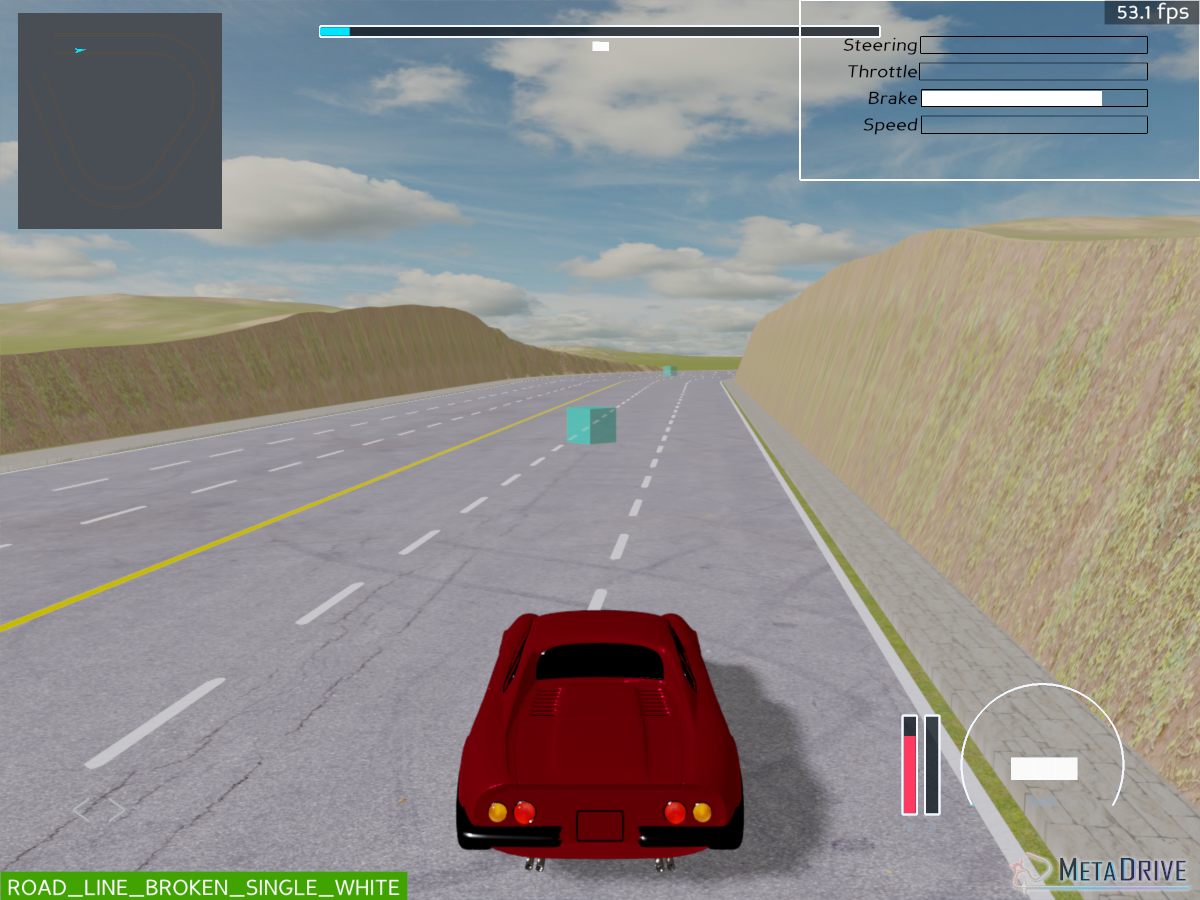
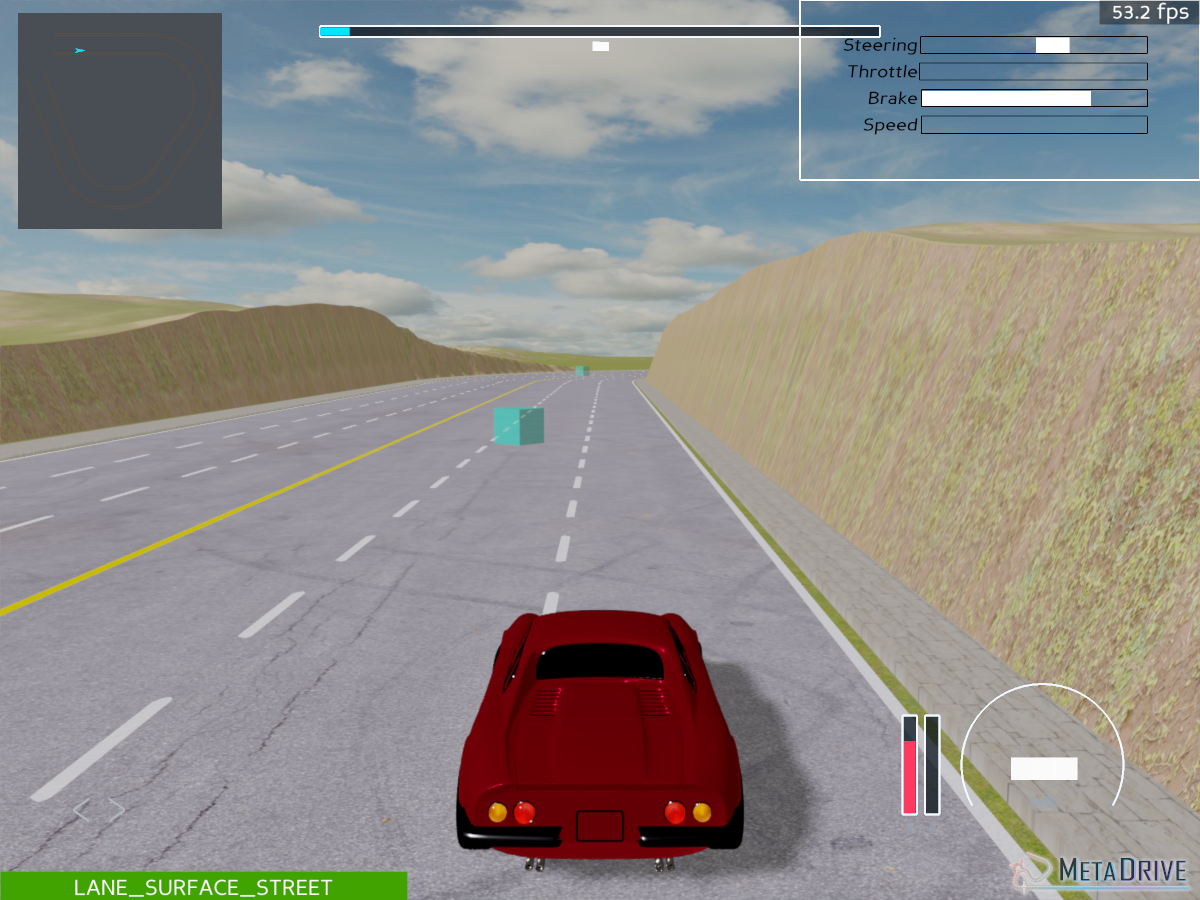
fix(visualization): refine HUD-2 telemetry sanitization, reset resting state, and demo evidence

diff --git a/autonomous-driving-rl/tests/test_racing_hud.py b/autonomous-driving-rl/tests/test_racing_hud.py
@@ -91,7 +91,7 @@ class TestRacingHudUnitSuite(unittest.TestCase):
         self.assertEqual(d["world_position"], (12.5, 34.2))
 
     def test_02_telemetry_nan_and_inf_normalized_to_none(self):
-        """2. Telemetry factory converts NaN, Inf, and non-numeric values to None."""
+        """2. Telemetry factory converts NaN, Inf, negative speeds, and non-numeric values to None."""
         snap = create_telemetry_snapshot(
             speed_kmh=float("nan"),
             route_completion=float("inf"),
@@ -99,6 +99,7 @@ class TestRacingHudUnitSuite(unittest.TestCase):
             canonical_throttle_brake="invalid",
             world_position=(float("nan"), 10.0),
             heading_theta_rad=float("nan"),
+            is_clean_success="not_a_bool",
         )
         self.assertIsNone(snap.speed_kmh)
         self.assertIsNone(snap.route_completion)
@@ -106,6 +107,19 @@ class TestRacingHudUnitSuite(unittest.TestCase):
         self.assertIsNone(snap.canonical_throttle_brake)
         self.assertIsNone(snap.world_position)
         self.assertIsNone(snap.heading_theta_rad)
+        self.assertIsNone(snap.is_clean_success)
+
+        # Negative speeds must be normalized to None (not coerced to 0.0)
+        snap_neg = create_telemetry_snapshot(speed_kmh=-15.0)
+        self.assertIsNone(snap_neg.speed_kmh)
+
+        # Strict boolean validation for is_clean_success
+        snap_int_bool = create_telemetry_snapshot(is_clean_success=1)
+        self.assertIsNone(snap_int_bool.is_clean_success)
+        snap_true = create_telemetry_snapshot(is_clean_success=True)
+        self.assertIs(snap_true.is_clean_success, True)
+        snap_false = create_telemetry_snapshot(is_clean_success=False)
+        self.assertIs(snap_false.is_clean_success, False)
 
     def test_03_speed_format_valid_zero_vs_missing_vs_positive(self):
         """3. Speedometer formats: 0.0 -> '000', None -> '---', 48.0 -> '048'."""
@@ -390,20 +404,38 @@ class TestRacingHudUnitSuite(unittest.TestCase):
             hud.destroy()
 
     def test_18_reset_restores_default_visual_state(self):
-        """18. reset() restores widgets to resting state ('000', '---', idle indicators) without destroying nodes."""
+        """18. reset() restores all widgets to unavailable/missing state ('---', disabled indicators/pedals)."""
         engine = _create_mock_racing_engine()
         hud = RacingHud(engine)
         try:
+            # First, update with active telemetry
             hud.update(create_telemetry_snapshot(speed_kmh=75.0, route_completion=0.8, canonical_steering=-0.4, canonical_throttle_brake=0.8))
             self.assertEqual(hud.speed_text_node.getText(), "075")
+            self.assertEqual(hud.progress_text_node.getText(), "80%")
 
+            # Now reset
             hud.reset()
-            self.assertEqual(hud.speed_text_node.getText(), "000")
+            # Speed must be '---' (never '000' before actual telemetry)
+            self.assertEqual(hud.speed_text_node.getText(), "---")
+            self.assertEqual(hud.speed_text_node.getTextColor(), COLOR_TEXT_DIM)
             self.assertEqual(hud.progress_text_node.getText(), "---")
             self.assertTrue(hud.progress_fill.isHidden())
-            self.assert_color_almost_equal(hud.indicator_left_np.getColor(), COLOR_INDICATOR_IDLE)
+            self.assert_color_almost_equal(hud.indicator_left_np.getColor(), COLOR_INDICATOR_DISABLED)
+            self.assert_color_almost_equal(hud.indicator_right_np.getColor(), COLOR_INDICATOR_DISABLED)
+            self.assert_color_almost_equal(hud.brake_bg.getColor(), COLOR_INDICATOR_DISABLED)
+            self.assert_color_almost_equal(hud.throttle_bg.getColor(), COLOR_INDICATOR_DISABLED)
             self.assertTrue(hud.brake_fill.isHidden())
             self.assertTrue(hud.throttle_fill.isHidden())
+
+            # First subsequent valid snapshot must re-illuminate and update accurately
+            hud.update(create_telemetry_snapshot(speed_kmh=0.0, route_completion=0.0, canonical_steering=0.0, canonical_throttle_brake=0.0))
+            self.assertEqual(hud.speed_text_node.getText(), "000")
+            self.assertEqual(hud.speed_text_node.getTextColor(), COLOR_TEXT_PRIMARY)
+            self.assertEqual(hud.progress_text_node.getText(), "0%")
+            self.assert_color_almost_equal(hud.indicator_left_np.getColor(), COLOR_INDICATOR_IDLE)
+            self.assert_color_almost_equal(hud.indicator_right_np.getColor(), COLOR_INDICATOR_IDLE)
+            self.assert_color_almost_equal(hud.brake_bg.getColor(), COLOR_BG_GLASS)
+            self.assert_color_almost_equal(hud.throttle_bg.getColor(), COLOR_BG_GLASS)
         finally:
             hud.destroy()
 
@@ -463,6 +495,42 @@ class TestRacingHudUnitSuite(unittest.TestCase):
[3 lines of base64/hex data omitted]
+
+    def test_23_demo_telemetry_extraction_and_safe_none_position(self):
+        """23. Missing world_position is handled without indexing NoneType, passing safely to visualizers."""
+        snap = create_telemetry_snapshot(world_position=None, speed_kmh=None, route_completion=None)
+        self.assertIsNone(snap.world_position)
+        # Safe extraction pattern verified
+        wx = snap.world_position[0] if snap.world_position is not None else None
+        wy = snap.world_position[1] if snap.world_position is not None else None
+        self.assertIsNone(wx)
+        self.assertIsNone(wy)
+
+    def test_24_combined_steering_and_braking_simultaneous_active(self):
+        """24. Combined steering + braking activates both turn indicator and red brake meter simultaneously."""
+        engine = _create_mock_racing_engine()
+        hud = RacingHud(engine)
+        try:
+            # Scripted maneuver: Steer Left (-0.30) AND Brake (-0.75)
+            snap = create_telemetry_snapshot(
+                speed_kmh=25.0,
+                canonical_steering=-0.30,
+                canonical_throttle_brake=-0.75,
+            )
+            hud.update(snap)
+
+            # Left turn indicator is active (amber)
+            self.assert_color_almost_equal(hud.indicator_left_np.getColor(), COLOR_INDICATOR_ACTIVE)
+            self.assert_color_almost_equal(hud.indicator_right_np.getColor(), COLOR_INDICATOR_IDLE)
+
+            # Red brake meter is active at 75%
+            self.assertFalse(hud.brake_fill.isHidden())
+            self.assertAlmostEqual(hud.brake_fill.getScale().z, 0.75, places=3)
+
+            # Throttle meter is inactive (0 fill)
+            self.assertTrue(hud.throttle_fill.isHidden())
+        finally:
+            hud.destroy()
 
 
 if __name__ == "__main__":

diff --git a/autonomous-driving-rl/scripts/demo_racing_hud_native.py b/autonomous-driving-rl/scripts/demo_racing_hud_native.py
@@ -104,10 +104,10 @@ def run_racing_hud_demo(
 
         while not (terminated or truncated) and step_idx < steps:
             # Multi-phase scripted action for comprehensive UI state verification:
-            # - Phase 1 (0..24): Straight acceleration (throttle=0.6)
+            # - Phase 1 (0..24): Straight acceleration (throttle=0.6, steering=0.0)
             # - Phase 2 (25..44): Gentle left turn (steering=-0.25, throttle=0.2)
             # - Phase 3 (45..64): Gentle right turn (steering=+0.25, throttle=0.2)
-            # - Phase 4 (65..80): Strong braking (throttle=-0.8)
+            # - Phase 4 (65..85): Combined Left Steering + Braking (steering=-0.30, throttle=-0.75)
             if step_idx < 25:
                 steer_cmd = 0.0
                 tb_cmd = 0.6
@@ -121,44 +121,48 @@ def run_racing_hud_demo(
                 tb_cmd = 0.2
                 phase_name = "RIGHT"
             else:
-                steer_cmd = 0.0
-                tb_cmd = -0.8
-                phase_name = "BRAKE"
+                steer_cmd = -0.30
+                tb_cmd = -0.75
+                phase_name = "BRK+LEFT"
 
             canonical_act = adapter.to_canonical([steer_cmd, tb_cmd])
             raw_obs, r_env, terminated, truncated, step_info = env.step(canonical_act.to_numpy())
             step_idx += 1
 
-            # Extract authoritative telemetry pose & metrics
-            pos = getattr(env.agent, "position", (0.0, 0.0))
-            heading = getattr(env.agent, "heading_theta", 0.0)
-            speed = getattr(env.agent, "speed_km_h", 0.0)
-            route_comp = step_info.get("route_completion", 0.0)
+            # Extract authoritative telemetry pose & metrics without fabricating fallbacks
+            pos = getattr(env.agent, "position", None) if hasattr(env, "agent") else None
+            heading = getattr(env.agent, "heading_theta", None) if hasattr(env, "agent") else None
+            speed = getattr(env.agent, "speed_km_h", None) if hasattr(env, "agent") else None
+            route_comp = step_info.get("route_completion") if isinstance(step_info, dict) else None
             sim_time = step_idx * 0.1
 
-            # Construct immutable telemetry snapshot
+            # Construct immutable telemetry snapshot via sanitizing factory
             snapshot = create_telemetry_snapshot(
                 step_index=step_idx,
                 simulation_time_s=sim_time,
-                world_position=(float(pos[0]), float(pos[1])),
-                heading_theta_rad=float(heading),
-                speed_kmh=float(speed),
-                route_completion=float(route_comp),
+                world_position=pos,
+                heading_theta_rad=heading,
+                speed_kmh=speed,
+                route_completion=route_comp,
                 canonical_steering=steer_cmd,
                 canonical_throttle_brake=tb_cmd,
             )
 
-            # Update visualizers
+            # Update visualizers defensively
             if minimap is not None:
-                minimap.update(world_x=snapshot.world_position[0], world_y=snapshot.world_position[1], heading_rad=snapshot.heading_theta_rad)
+                wx = snapshot.world_position[0] if snapshot.world_position is not None else None
+                wy = snapshot.world_position[1] if snapshot.world_position is not None else None
+                minimap.update(world_x=wx, world_y=wy, heading_rad=snapshot.heading_theta_rad)
             if hud is not None:
                 hud.update(snapshot)
 
             if step_idx % 15 == 0 or step_idx == 1:
+                disp_spd = f"{snapshot.speed_kmh:5.1f} km/h" if snapshot.speed_kmh is not None else "  --- km/h"
+                disp_route = f"{snapshot.route_completion:5.1%}" if snapshot.route_completion is not None else "  ---"
                 print(
-                    f"  Step {step_idx:2d}/{steps} [{phase_name:5s}] | "
-                    f"Spd={speed:5.1f} km/h | "
-                    f"Route={route_comp:5.1%} | "
+                    f"  Step {step_idx:2d}/{steps} [{phase_name:8s}] | "
+                    f"Spd={disp_spd} | "
+                    f"Route={disp_route} | "
                     f"Steer={steer_cmd:+5.2f} | "
                     f"ThrBrk={tb_cmd:+5.2f}"
                 )
@@ -173,7 +177,10 @@ def run_racing_hud_demo(
                 screen_path = Path(capture_screenshot_path).resolve()
                 screen_path.parent.mkdir(parents=True, exist_ok=True)
                 fn = p3d.Filename.fromOsSpecific(str(screen_path))
+                # Render current frame so latest step geometry is committed to framebuffer
+                env.engine.graphicsEngine.renderFrame()
                 env.engine.win.saveScreenshot(fn)
+                # Flush frames so image is committed to disk before window close
                 env.engine.graphicsEngine.renderFrame()
                 env.engine.graphicsEngine.renderFrame()
                 if screen_path.exists():

diff --git a/autonomous-driving-rl/src/visualization/racing_hud.py b/autonomous-driving-rl/src/visualization/racing_hud.py
@@ -479,26 +479,43 @@ class RacingHud:
                 self.throttle_fill.hide()
 
     def reset(self) -> None:
-        """Resets all widgets to their default resting state without destroying nodes."""
+        """
+        Resets all widgets to their default unavailable/missing-data resting state.
+        Does not fabricate zero values ('000') prior to receiving actual telemetry.
+        """
         if self._is_destroyed:
             return
 
+        # 1. Route progress: reset to missing
         if self.progress_fill is not None:
             self.progress_fill.hide()
         if self.progress_text_node is not None:
             self.progress_text_node.setText("---")
             self.progress_text_node.setTextColor(COLOR_TEXT_DIM)
 
+        # 2. Speedometer: reset to missing ('---'), empty arc
         if self.speed_text_node is not None:
-            self.speed_text_node.setText("000")
-            self.speed_text_node.setTextColor(COLOR_TEXT_PRIMARY)
+            self.speed_text_node.setText("---")
+            self.speed_text_node.setTextColor(COLOR_TEXT_DIM)
+        if self.speed_unit_node is not None:
+            self.speed_unit_node.setTextColor(COLOR_TEXT_DIM)
         self._update_speedometer_arc(0.0)
 
+        # 3. Turn indicators: reset to disabled
         if self.indicator_left_np is not None:
-            self.indicator_left_np.setColor(COLOR_INDICATOR_IDLE)
+            self.indicator_left_np.setColor(COLOR_INDICATOR_DISABLED)
         if self.indicator_right_np is not None:
-            self.indicator_right_np.setColor(COLOR_INDICATOR_IDLE)
+            self.indicator_right_np.setColor(COLOR_INDICATOR_DISABLED)
 
+        # 4. Pedal meters: reset to disabled frames with hidden fills
+        if self.brake_bg is not None:
+            self.brake_bg.setColor(COLOR_INDICATOR_DISABLED)
+        if self.throttle_bg is not None:
+            self.throttle_bg.setColor(COLOR_INDICATOR_DISABLED)
+        if self.brake_border is not None:
+            self.brake_border.setColor(COLOR_FRAME_DISABLED)
+        if self.throttle_border is not None:
+            self.throttle_border.setColor(COLOR_FRAME_DISABLED)
         if self.brake_fill is not None:
             self.brake_fill.hide()
         if self.throttle_fill is not None:

diff --git a/autonomous-driving-rl/src/visualization/telemetry_model.py b/autonomous-driving-rl/src/visualization/telemetry_model.py
@@ -110,9 +110,9 @@ def create_telemetry_snapshot(
     # 4. Heading
     sanitized_heading = _sanitize_finite_float(heading_theta_rad)
 
-    # 5. Speed
+    # 5. Speed: non-negative finite float; negative speeds are invalid in pinned MetaDrive API
     raw_spd = _sanitize_finite_float(speed_kmh)
-    sanitized_spd = max(0.0, raw_spd) if raw_spd is not None else None
+    sanitized_spd = raw_spd if (raw_spd is not None and raw_spd >= 0.0) else None
 
     # 6. Route completion
     sanitized_route = _sanitize_finite_float(route_completion)
@@ -123,10 +123,10 @@ def create_telemetry_snapshot(
     # 8. Throttle/brake
     sanitized_tb = _sanitize_finite_float(canonical_throttle_brake)
 
-    # 9. Clean success
+    # 9. Clean success: strictly boolean (True/False); do not coerce non-boolean types
     clean_succ: Optional[bool] = None
-    if is_clean_success is not None:
-        clean_succ = bool(is_clean_success)
+    if type(is_clean_success) is bool:
+        clean_succ = is_clean_success
 
     return HudTelemetrySnapshotV1(
         step_index=idx,

diff --git a/autonomous-driving-rl/docs/visualization/HUD2_RACING_HUD_IMPLEMENTATION_AUDIT.md b/autonomous-driving-rl/docs/visualization/HUD2_RACING_HUD_IMPLEMENTATION_AUDIT.md
@@ -18,22 +18,24 @@ Gate HUD-2 implements the six procedural 2D situational awareness widgets on Pan
 ### Key Deliverables:
 1. **Immutable Telemetry Snapshot Model (`src/visualization/telemetry_model.py`):**
    - Implemented `HudTelemetrySnapshotV1`, a frozen dataclass capturing step index, simulation time, world position, heading, speed, route completion, steering, throttle/brake, and episode status.
-   - Implemented `create_telemetry_snapshot(...)` factory with defensive sanitization: converts NaN, Inf, and non-numeric values to `None`, preserving legitimate zeros (`0.0`).
+   - Implemented `create_telemetry_snapshot(...)` factory with defensive sanitization: converts NaN, Inf, negative speeds, and non-numeric values to `None`, preserves legitimate zeros (`0.0`), and strictly enforces boolean typing on `is_clean_success`.
 2. **Transparent Racing HUD (`src/visualization/racing_hud.py`):**
    - **Route Progress Bar:** Anchored to top-center (`a2dTopCenter`), spanning ~35% of 16:9 width ($W = 1.244, H = 0.024$), with cyan fill and percentage text (`0%`..`100%`, or `"---"`).
    - **Digital Speedometer & Arc:** Anchored to bottom-right (`a2dBottomRight`), with prominent 3-digit bold readout (`"000"`..`"999"`, or `"---"`), unit label `"km/h"`, and a $240^\circ$ circular arc gauge filling proportionally up to $100\,\text{km/h}$ (saturates visually without truncating digits).
    - **Left & Right Turn Indicators:** Anchored to bottom-left (`a2dBottomLeft`), featuring vector chevrons glowing bright amber (`#FFD600`) when steering exceeds $\pm 0.15$ threshold, dimming to muted slate-blue (`#37474F`) when neutral, and dimming to disabled gray when steering is `None`.
    - **Brake & Throttle Meters:** Anchored to bottom-right left of the speedometer, featuring two vertical bars (`#FF1744` red for brake, `#00E676` green for throttle). Displays active illuminated frames with 0% fill during neutral coasting (`0.0`), and dims to disabled state when command is `None`.
+   - **Resting Reset State:** `reset()` resets all widgets to the unavailable/missing telemetry state (`"---"`, disabled indicators, disabled pedal frames) without fabricating `"000"`, ready to accurately display the first valid step update.
 3. **Public Visualization Exports (`src/visualization/__init__.py`):**
    - Cleanly exports `RacingHud`, `HudTelemetrySnapshotV1`, and `create_telemetry_snapshot` without eager imports or headless side effects.
 4. **Standalone Sandbox Demo (`scripts/demo_racing_hud_native.py`):**
-   - Implemented a standalone demo runner confined strictly to TRAIN/SANDBOX scenarios, demonstrating all seven components simultaneously across a 4-phase scripted maneuver (acceleration, left steer, right steer, strong brake).
+   - Implemented a standalone demo runner confined strictly to TRAIN/SANDBOX scenarios, demonstrating all seven components simultaneously across a 4-phase scripted maneuver (acceleration, left steer, right steer, and combined left steer + brake).
+   - Extracts simulator telemetry directly without fabricating synthetic default fallbacks (`0.0`, `(0.0, 0.0)`), and handles missing position defensively without subscription errors.
 5. **Committed Visual Evidence (`docs/visualization/evidence/*.png`):**
    - `hud2_racing_hud_overview.png`: Real native desktop screenshot showing all widgets active during acceleration.
-   - `hud2_racing_hud_braking_and_turning.png`: Real native desktop screenshot showing turn indicators, red brake meter fill, and extended minimap trail.
+   - `hud2_racing_hud_braking_and_turning.png`: Real native desktop screenshot showing turn indicators glowing amber AND red brake meter filling simultaneously during combined steering + braking phase.
 6. **Comprehensive Unit Test Suite (`tests/test_racing_hud.py`):**
-   - 22 dedicated test cases verifying data immutability, missing-data policies, numerical formatting, arc normalization, steering thresholds, pedal polarity, responsive aspect ratio invariance, and clean node disposal.
-   - Full repository regression suite passes at **470 tests (469 passed, 1 skipped informational, 0 failures, 0 errors — 100% OK)**.
+   - 24 dedicated test cases verifying data immutability, missing-data policies, numerical formatting, arc normalization, steering thresholds, pedal polarity, simultaneous steering + braking, responsive aspect ratio invariance, and clean node disposal.
+   - Full repository regression suite passes at **472 tests (471 passed, 1 skipped informational, 0 failures, 0 errors — 100% OK)**.
 7. **Complete Scientific Isolation:**
    - Production `src/launcher/executor.py` is **100% untouched** (production integration reserved for HUD-3).
    - Zero modifications to `configs/platform/`, `datasets/mapsuite_v1/`, or locked `results/audits/`.
@@ -129,18 +131,20 @@ Two native screenshots captured directly from live simulation sessions are commi
    - Top-left: Minimap with live road loops and ego marker.
    - Bottom-right: Digital speedometer displaying active speed (`"008" km/h`), cyan circular arc advancing, green throttle meter filling at 60%.
    - Bottom-left: Left and right turn indicators in neutral idle state.
-2. **Turning & Braking State (`docs/visualization/evidence/hud2_racing_hud_braking_and_turning.png`, 1,288,098 bytes):**
-   - Active braking: Bright red vertical brake fill bar responding to deceleration command (`-0.80`), throttle meter at 0%.
-   - Turn indicator activation and accumulated trajectory polyline visible on minimap.
+2. **Turning & Braking State (`docs/visualization/evidence/hud2_racing_hud_braking_and_turning.png`, 1,320,176 bytes):**
+   - Captured during Step 75 (scripted combined maneuver: steering `-0.30` and braking `-0.75`).
+   - Active braking: Bright red vertical brake fill bar responding to deceleration command (`-0.75`), throttle meter at 0%.
+   - Left turn indicator glowing bright amber (`#FFD600`) simultaneously with active braking.
+   - Minimap shows accumulated trajectory polyline without jitter.
 
 ---
 
 ## 5. Unit Test Suite Results
 
 ### 5.1 Dedicated HUD-2 Test Suite (`tests/test_racing_hud.py`)
-All 22 unit tests passed in 0.090s:
+All 24 unit tests passed in 0.112s:
 1. `test_01_telemetry_snapshot_immutable_and_serializable`: **PASS**
-2. `test_02_telemetry_nan_and_inf_normalized_to_none`: **PASS**
+2. `test_02_telemetry_nan_and_inf_normalized_to_none`: **PASS** (Verifies NaN/Inf, negative speeds -> None, strict boolean for is_clean_success).
 3. `test_03_speed_format_valid_zero_vs_missing_vs_positive`: **PASS**
 4. `test_04_speedometer_arc_normalization_and_saturation`: **PASS**
 5. `test_05_route_progress_percentage_formatting`: **PASS**
@@ -156,16 +160,18 @@ All 22 unit tests passed in 0.090s:
 15. `test_15_circular_arc_geometry_points_in_bounds`: **PASS**
 16. `test_16_zero_interference_with_minimap_and_render`: **PASS**
 17. `test_17_no_unbounded_node_allocations_on_repeated_updates`: **PASS**
-18. `test_18_reset_restores_default_visual_state`: **PASS**
+18. `test_18_reset_restores_default_visual_state`: **PASS** (Verifies reset restores '---', disabled indicators/pedals, and subsequent valid snapshot re-illuminates accurately).
 19. `test_19_destroy_idempotency_and_clean_cleanup`: **PASS**
 20. `test_20_partial_initialization_exception_safe_rollback`: **PASS**
 21. `test_21_no_background_taskmgr_tasks_spawned`: **PASS**
 22. `test_22_scientific_contracts_and_hashes_unmutated`: **PASS**
+23. `test_23_demo_telemetry_extraction_and_safe_none_position`: **PASS** (Verifies safe extraction when world_position is None).
+24. `test_24_combined_steering_and_braking_simultaneous_active`: **PASS** (Verifies simultaneous left turn amber chevron and red brake fill).
 
 ### 5.2 Full Repository Regression Test Pass
 Ran all 17 test modules in active conda `metadrive` environment:
-- Total Tests: **470**
-- Passed: **469**
+- Total Tests: **472**
+- Passed: **471**
 - Skipped: **1** (`test_44_100_runs_discovery_performance_informational_only` in `test_workbench_hardening` — informational benchmark test)
 - Failures: **0**
 - Errors: **0**
